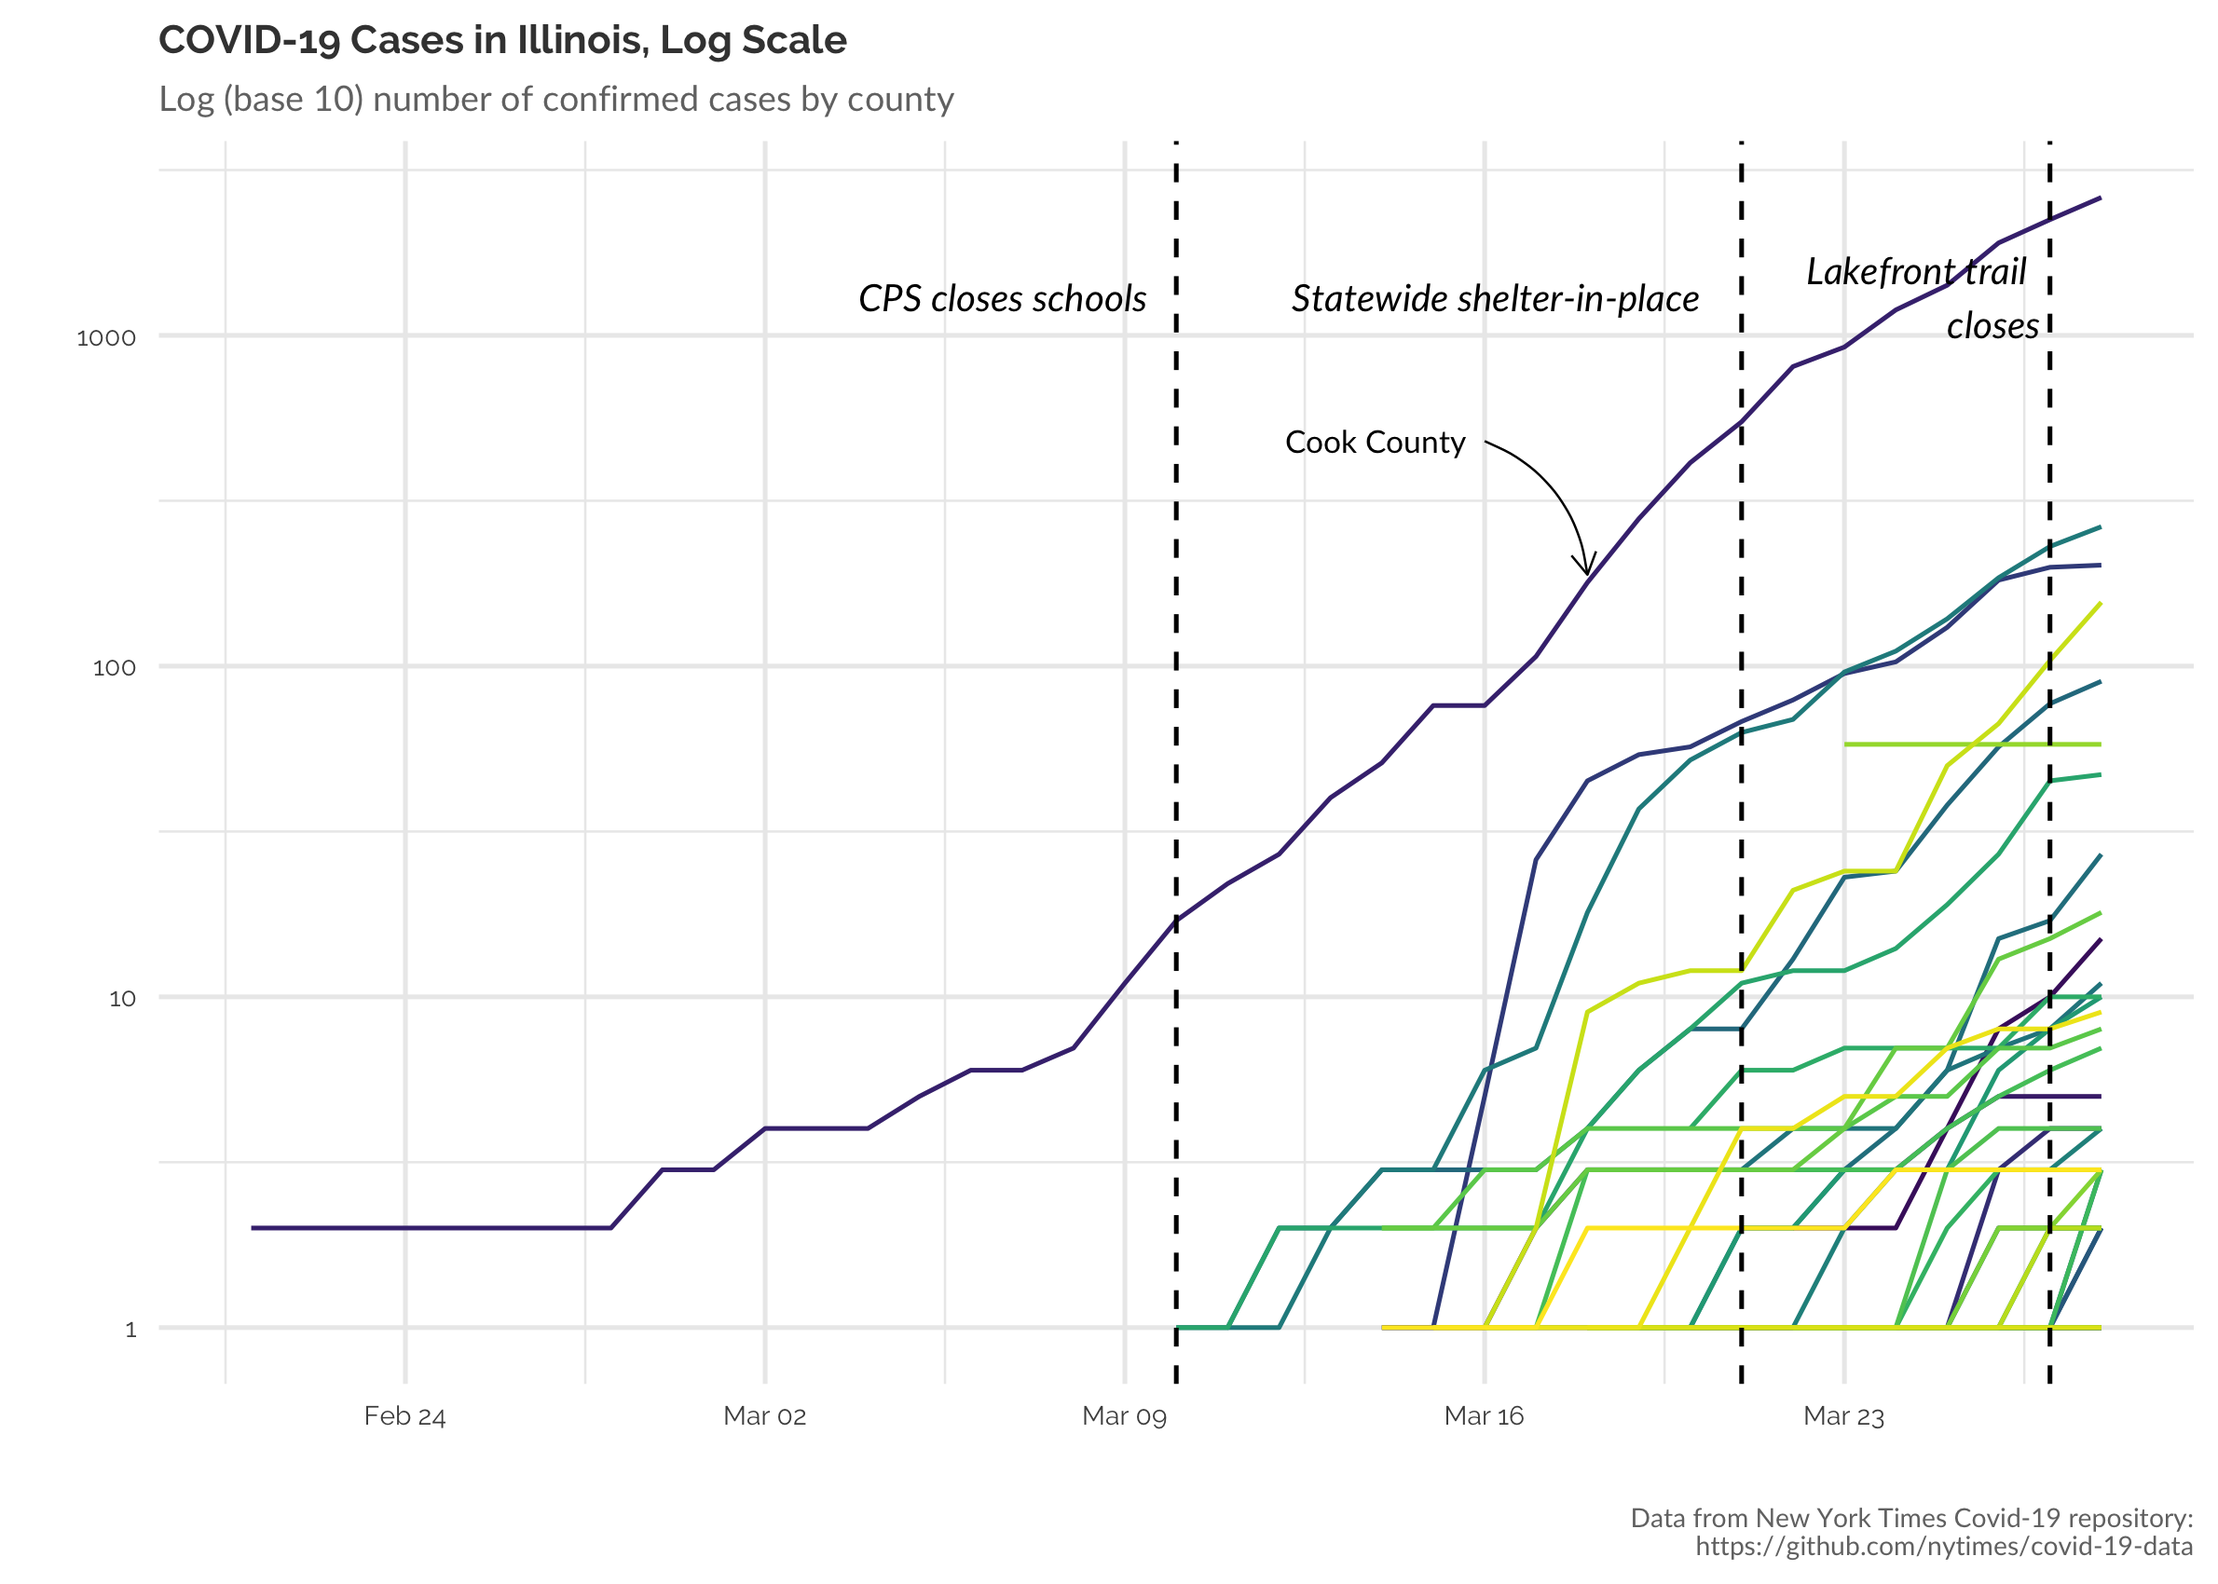
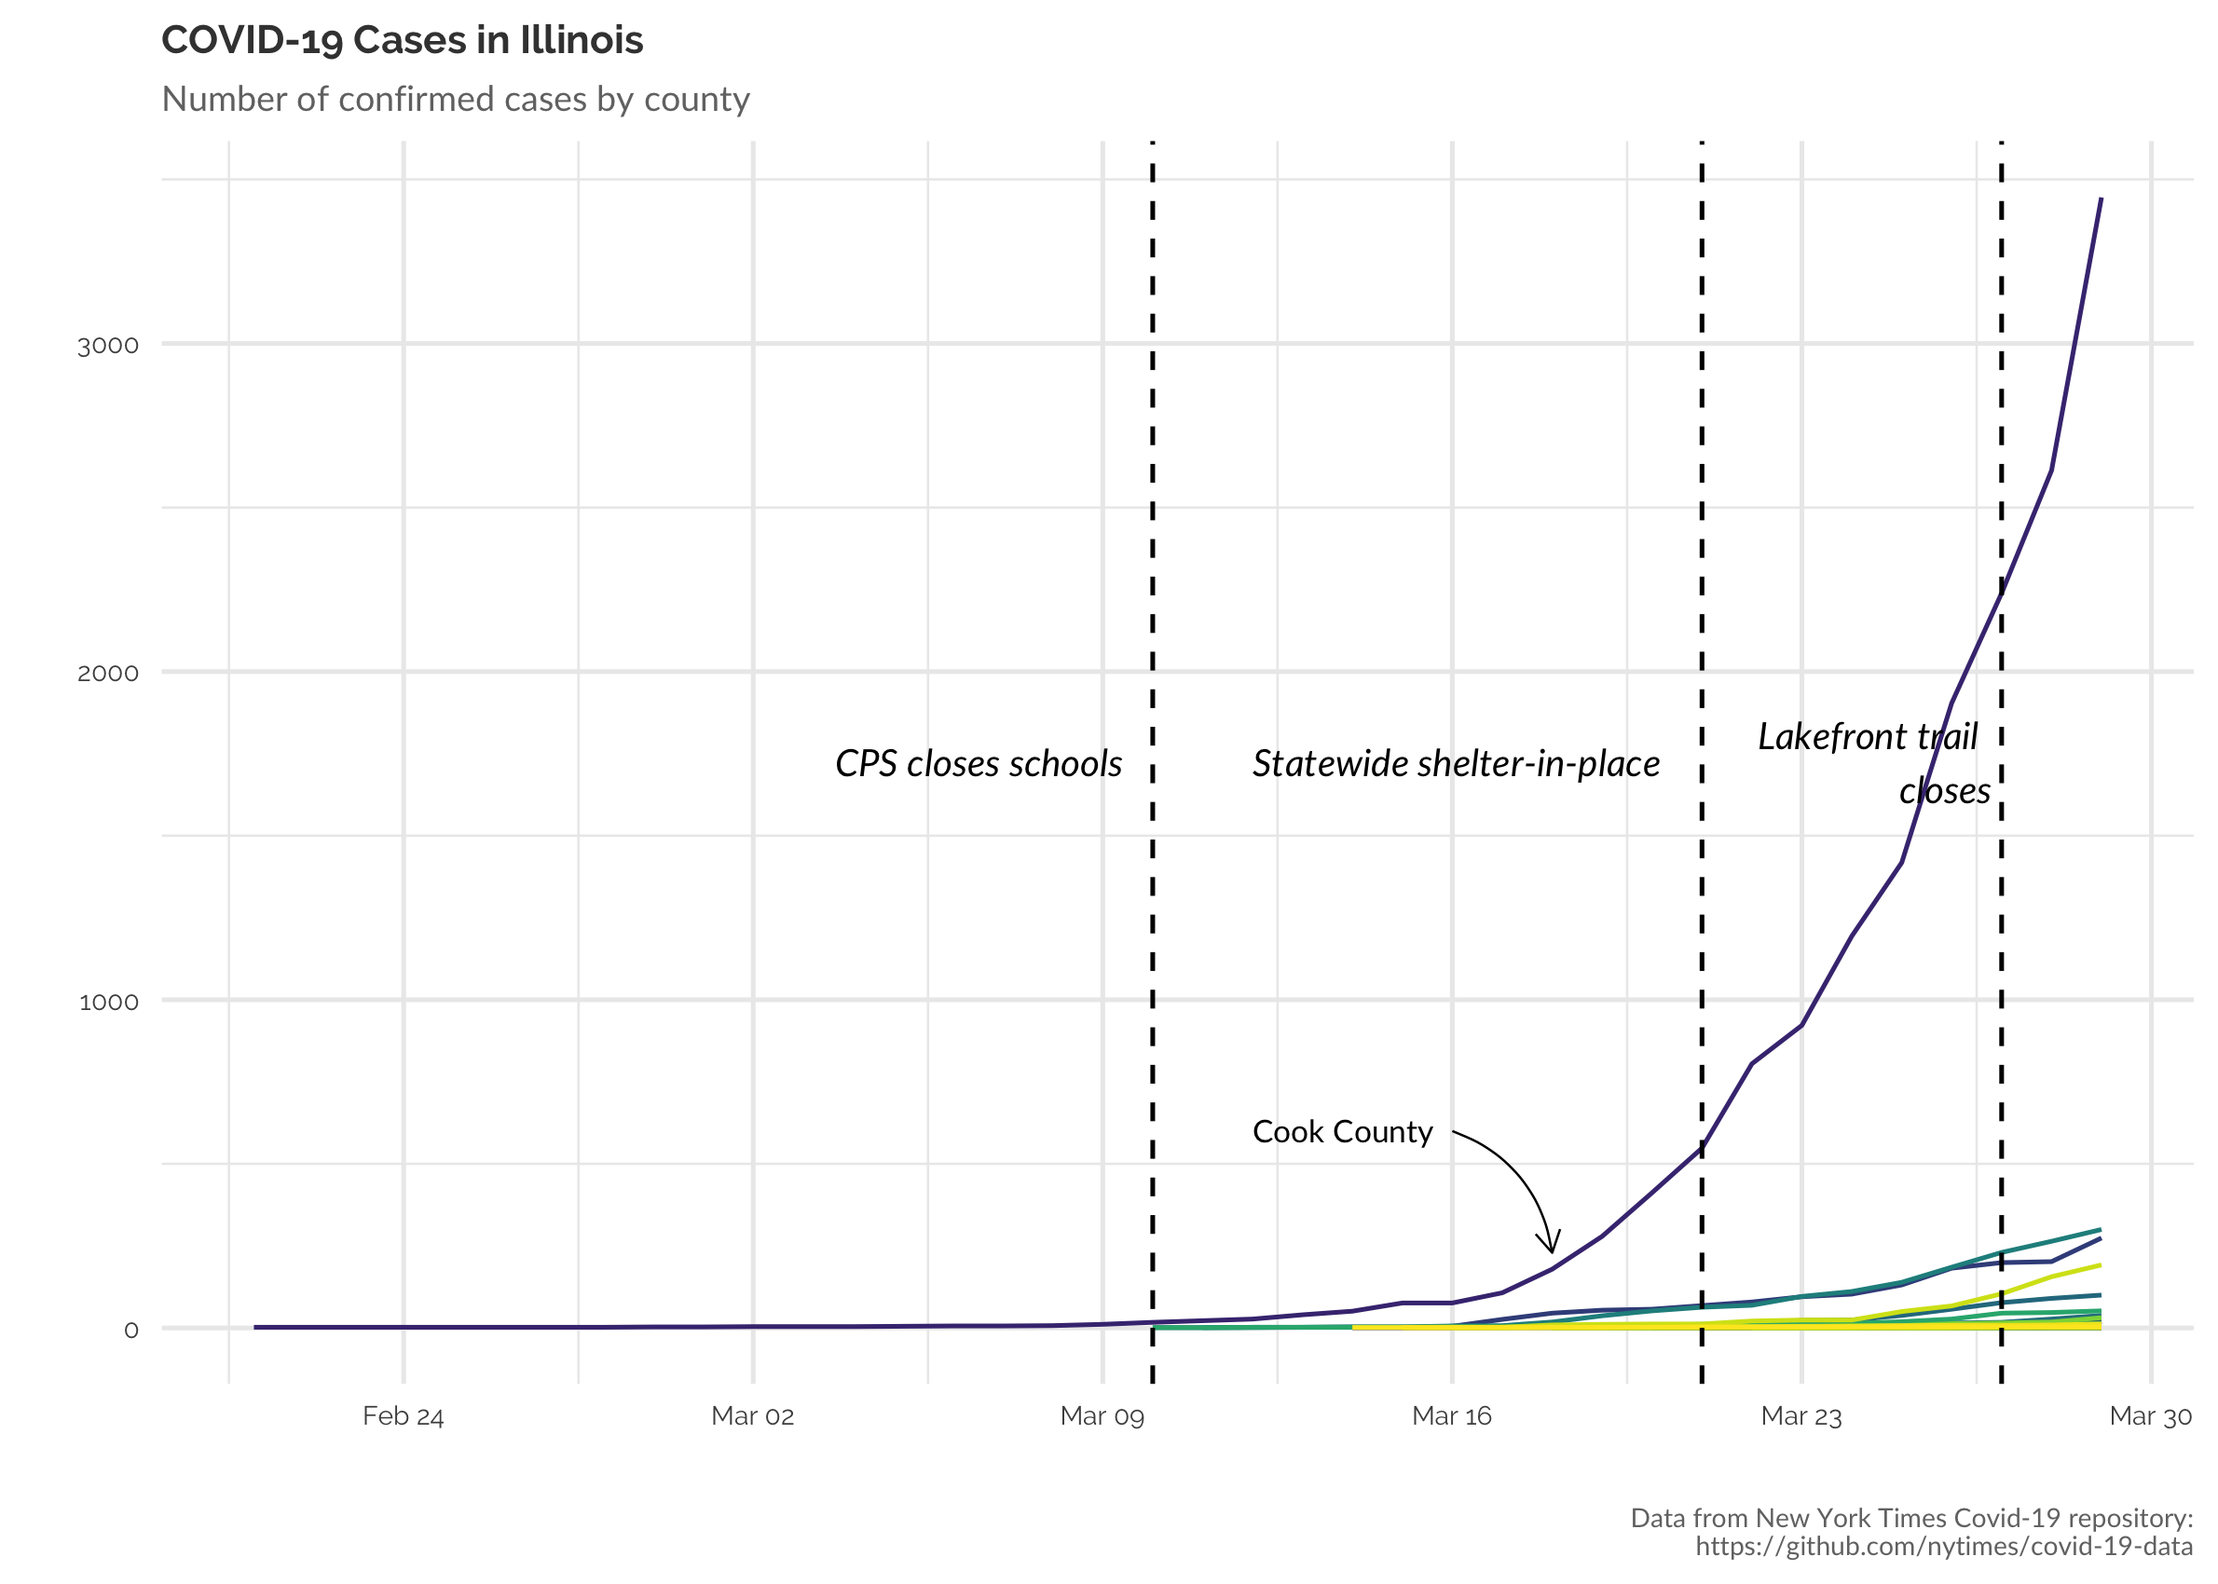
updated post on covid-19 in il

diff --git a/_posts/2020-03-28-covid-il.md b/_posts/2020-03-28-covid-il.md
@@ -16,6 +16,8 @@ order for over a week. Schools have been closed for two weeks. I’ve been
 busy with the little ones and with work. But I thought I might visualize
 the spread of COVID-19 in Illinois, which I have not yet seen done.
 
+I like to set a custom `ggplot2` theme. Nothing fancy.
+
 ``` r
 # Define ggplot theme
 theme_set(
@@ -28,17 +30,38 @@ theme_set(
       axis.text.y = element_text(size = 6),
       plot.title = element_text(size = 9, colour = "grey25", face = "bold"),
       plot.subtitle = element_text(family = "Lato", size = 8, colour = "grey45"),
-      plot.caption = element_text(family = "Lato", size = 6, colour = "grey45")
+      plot.caption = element_text(family = "Lato", size = 6, colour = "grey45"),
+      legend.margin=margin(),
+      legend.text = element_text(size = 6), 
+      legend.title = element_text(size = 8, vjust = 0),
+      legend.key.size = unit(0.5, "cm")
     )
 )
 ```
 
 # Getting the data from the New York Times COVID-19 github repo
 
+There are a few organizations tracking confirmed COVID-19 cases and
+deaths, including the [Johns Hopkins University Center for Systems
+Science and Engineering](https://github.com/CSSEGISandData/COVID-19) and
+the [New York Times](https://github.com/nytimes/covid-19-data). The JHU
+repo seems a bit more comprehensive, but the New York Times gives me
+just what I need. I read the county-level csv file straight from GitHub
+and filter it to include only Illinois counties.
+
 ``` r
 il <- read_csv("https://raw.githubusercontent.com/nytimes/covid-19-data/master/us-counties.csv") %>% 
-  filter(state == "Illinois")
+  filter(state == "Illinois", county != "Unknown")
 
+glimpse(il)
+```
+
+I use the `{tidycensus}` package to get both county population from the
+2010 Dicennial Census and county geographic data. This will enable me to
+determine per capita rates, as well as create spatial visualizations of
+COVID-19 cases.
+
+``` r
 # il county census data
 il_pop <- get_decennial(geography = "county", 
                         variables = "P001001", 
@@ -46,9 +69,27 @@ il_pop <- get_decennial(geography = "county",
                         geometry = TRUE) %>% 
   janitor::clean_names() %>% 
   transmute(geoid = geoid,
+            county = str_remove(name, " County, Illinois"),
             population = value,
             geometry = geometry)
+
+glimpse(il_pop)
 ```
+
+# Visualizing confirmed COVID-19 cases in Illinois
+
+Accessing the data was easy. Now, I will make a series of line graphs,
+similar to what’s making the rounds on various social media platforms.
+
+## Nominal confirmed cases by county
+
+First, a simple visualization of the number of confirmed cases in
+Illinois, by county, since Feb. 20. I include a couple of relevant dates
+as annotations–when CPS closed schools, the statewide shelter-in-place
+order, and the closing of the Lakefront trail. Cook County, where
+Chicago is located and by far the most populous in the state, has the
+largest number of confirmed cases, unsurprisingly. As of March 28, there
+are over 2,000 confirmed cases.
 
 ``` r
 il %>% 
@@ -104,13 +145,23 @@ il %>%
        caption = "Data from New York Times Covid-19 repository:\nhttps://github.com/nytimes/covid-19-data")
 ```
 
-![](https://ramorel.github.io/files/2020-03-28-covid-il_files/figure-gfm/unnamed-chunk-3-1.png)<!-- -->
+![](https://ramorel.github.io/files/2020-03-28-covid-il_files/figure-gfm/unnamed-chunk-4-1.png)<!-- -->
 
-# Using a log scale for number of cases
+## Log scale for confirmed cases in Illinois
+
+Using a log scale helps to clarify the line graph, turning the steeply
+curving exponential line into a nice linear line. A linear increase on a
+log scale graph corresponds to a nominal exponential increase. A flatter
+line would mean that the rate of confirmed cases is becoming more
+linear. Notable in this version is the extreme growth of cases in DuPage
+County, which borders Cook County to the west and is the second-most
+populous in the state. Tracking close to DuPage County is Lake County,
+also part of the Chicago metropolitan area, bordering Cook County to the
+north.
 
 ``` r
 il %>% 
-  filter(cases != 0, date > "2020-02-20") %>% 
+  filter(date > "2020-02-20") %>% 
   ggplot(aes(x = date, y = cases, group = county)) +
   geom_line(aes(color = county)) +
   geom_vline(xintercept = as.Date("2020-03-10"), linetype = 2) +
@@ -157,15 +208,36 @@ il %>%
            hjust = 1.1, 
            size = 2.5, 
            family = "Lato") +
+  annotate("curve", 
+           x = as.Date("2020-03-15"), 
+           y = (il$cases[il$county == "DuPage" & il$date == "2020-03-16"] + 10), 
+           xend = as.Date("2020-03-16"), 
+           yend = (il$cases[il$county == "DuPage" & il$date == "2020-03-16"] + 5), 
+           size = 0.25, 
+           curvature = .3, 
+           arrow = arrow(length = unit(2, "mm"))) + 
+  annotate("text", 
+           label = "DuPage County", 
+           x = as.Date("2020-03-16"), 
+           y = (il$cases[il$county == "DuPage" & il$date == "2020-03-17"] - 10), 
+           hjust = 1.1, 
+           vjust = 0, 
+           size = 2.5, 
+           family = "Lato") +
   labs(x = "", y = "", 
        title = "COVID-19 Cases in Illinois, Log Scale",
        subtitle = "Log (base 10) number of confirmed cases by county",
        caption = "Data from New York Times Covid-19 repository:\nhttps://github.com/nytimes/covid-19-data")
 ```
 
-![](https://ramorel.github.io/files/2020-03-28-covid-il_files/figure-gfm/unnamed-chunk-4-1.png)<!-- -->
+![](https://ramorel.github.io/files/2020-03-28-covid-il_files/figure-gfm/unnamed-chunk-5-1.png)<!-- -->
 
-## Using number of cases per 10,000
+## Number of confirmed cases per 10,000
+
+Look at the rate per 10,000 people in each county reveals another
+dimension of the spread. For one, it shows that the situation in both
+Lake and DuPage counties, while nominally appearing better than Cook, is
+almost as bad when taking the population into account.
 
 ``` r
 il_per_cap <-
@@ -174,7 +246,7 @@ il_per_cap <-
   complete(county, nesting(date), fill = list(cases = 0, deaths = 0)) %>%
   arrange(date, county) %>% 
   select(-fips) %>% 
-  left_join(il %>% select(county, fips), by = "county") %>% 
+  left_join(il %>% select(county, fips) %>% distinct(), by = "county") %>% 
   left_join(il_pop %>% select(geoid, population), 
             by = c("fips" = "geoid")) %>% 
   mutate(cases_per = (cases/population) * 10000,
@@ -245,22 +317,57 @@ il_per_cap %>%
        caption = "Data from New York Times Covid-19 repository:\nhttps://github.com/nytimes/covid-19-data")
 ```
 
-![](https://ramorel.github.io/files/2020-03-28-covid-il_files/figure-gfm/unnamed-chunk-5-1.png)<!-- -->
+![](https://ramorel.github.io/files/2020-03-28-covid-il_files/figure-gfm/unnamed-chunk-6-1.png)<!-- -->
+
+# Spatial visualization of confirmed COVID-19 cases in Illinois
+
+The next set of visualizations look at the spatial distribution of
+cases. This analysis shows us that, although most of the cases are
+concentrated around the Chicago metropolitan area, where most of the
+populatoin of Illinois is located, there are cases throughout the state.
+At this point, not every country has a confirmed case, but I imagine
+that reality is not far off. I use the brilliant `{gganimate}` package
+to animate the growth of cases by county.
+
+Not all the counties in Illinois are represented in the data, but I want
+them included in the visualization. So I have to do a little more
+wrangling of the data. I will complete the dataframe by doing a
+`full_join()` with county column from the census data and then
+recalculate the rate per 10,000.
+
+``` r
+il <- il %>% 
+  full_join(il_pop %>% st_drop_geometry() %>% select(county)) %>% 
+  complete(county, nesting(date), fill = list(cases = 0, deaths = 0)) %>% 
+  arrange(date, county)
+
+il_per_cap <-
+  il %>% 
+  left_join(il_pop %>% select(county, population), 
+            by = c("county")) %>% 
+  mutate(cases_per = (cases/population) * 10000,
+         deaths_per = (deaths/population) * 100000) 
+```
+
+For the first map, I use the log of the number of confirmed cases. Since
+Chicago has so many more cases than any other county, nominally, the
+maps would not show much meaningful contrast. Logging the number of
+cases makes the contrast between low-number counties.
 
 ``` r
 il_anim <- il %>% 
-  filter(cases != 0, date > "2020-02-20") %>% 
+  filter(date > "2020-02-20") %>% 
   mutate(log_cases = log10(cases)) %>% 
-  left_join(il_pop %>% select(geoid, population), 
-            by = c("fips" = "geoid")) %>% 
+  left_join(il_pop %>% select(county, population), 
+            by = c("county")) %>% 
   ggplot() +
   geom_sf(data = il_pop, aes(geometry = geometry)) +
-  geom_sf(aes(geometry = geometry, fill = cases)) +
-  scale_fill_viridis_c(name = "Cases (logged)") +  
+  geom_sf(aes(geometry = geometry, fill = log_cases)) +
+  scale_fill_viridis_c(name = "Cases (logged)", na.value = "grey70") +  
   labs(x = "", y = "", 
-       title = "COVID-19 Cases in Illinois by County",
+       title = "Confirmed COVID-19 Cases in Illinois by County (log scale)",
        subtitle = "{current_frame}",
-       caption = "Data from New York Times Covid-19 repository:\nhttps://github.com/nytimes/covid-19-data") +
+       caption = "Notes. Gray indicates no cases.\nData from New York Times Covid-19 repository:\nhttps://github.com/nytimes/covid-19-data") +
   transition_manual(date) +
   theme(plot.background = element_rect(fill = "antiquewhite2", color = NA),
         axis.ticks.x = element_blank(), 
@@ -273,17 +380,22 @@ il_anim <- il %>%
 animate(il_anim, fps = 10)
 ```
 
-![](https://ramorel.github.io/files/2020-03-28-covid-il_files/figure-gfm/unnamed-chunk-6-1.gif)<!-- -->
+![](https://ramorel.github.io/files/2020-03-28-covid-il_files/figure-gfm/unnamed-chunk-8-1.gif)<!-- -->
+
+Second, I use the number of cases per 10,000, as above. This, to my
+mind, does the best job of showing the severity of the pandemic in each
+county.
 
 ``` r
 il_anim <-
   il_per_cap %>% 
+  mutate(cases_per = ifelse(cases_per == 0, NA, cases_per)) %>% 
   ggplot() +
   geom_sf(data = il_pop, aes(geometry = geometry)) +
-  geom_sf(aes(geometry = geometry, fill = cases_per), color = NA) +
-  scale_fill_viridis_c(name = "Cases per 10,000") +  
+  geom_sf(aes(geometry = geometry, fill = cases_per)) +
+  scale_fill_viridis_c(name = "Cases per 10,000", na.value = "grey70") +  
   labs(x = "", y = "", 
-       title = "COVID-19 Cases in Illinois by County",
+       title = "Confirmed COVID-19 Cases per 10,000 in Illinois by County",
        subtitle = "{current_frame}",
        caption = "Data from New York Times Covid-19 repository:\nhttps://github.com/nytimes/covid-19-data") +
   transition_manual(date) +
@@ -298,4 +410,49 @@ il_anim <-
 animate(il_anim, fps = 10)
 ```
 
-![](https://ramorel.github.io/files/2020-03-28-covid-il_files/figure-gfm/unnamed-chunk-7-1.gif)<!-- -->
+![](https://ramorel.github.io/files/2020-03-28-covid-il_files/figure-gfm/unnamed-chunk-9-1.gif)<!-- -->
+
+Last, I want to capture the distribution of the population in Illinois
+with the number of cases in each county. This makes it clearer that,
+while the Chicago metropolitan area has the most number of cases, it is
+also by far the most populous area in the state. I use the log of the
+population, since Cook County is SO much bigger than every other county.
+
+``` r
+il_anim <-
+  il_per_cap %>% 
+  mutate(lon = map_dbl(geometry, ~st_point_on_surface(.x)[[1]]), 
+         lat = map_dbl(geometry, ~st_point_on_surface(.x)[[2]]),
+         cases_per = ifelse(cases_per == 0, NA, cases_per)) %>%
+  ggplot() +
+  geom_sf(data = il_pop, aes(geometry = geometry, fill = log(population, base = 10))) +
+  geom_point(aes(x = lon, y = lat, size = cases_per), color = "tomato", alpha = 0.7) +
+  scale_fill_distiller(name = "Logged Population", labels = scales::comma, palette = "Blues", direction = 1) +  
+  scale_size(name = "Cases per 10,000") +
+  labs(x = "", y = "", 
+       title = "Confirmed COVID-19 Cases per 10,000 in Illinois by County",
+       subtitle = "Date: {current_frame}",
+       caption = "Data from New York Times Covid-19 repository:\nhttps://github.com/nytimes/covid-19-data") +
+  transition_manual(date) +
+  theme(plot.background = element_rect(fill = "cornsilk2", color = NA),
+        axis.ticks.x = element_blank(), 
+        axis.text.x = element_blank(), 
+        axis.text.y = element_blank(), 
+        axis.ticks.y = element_blank(), 
+        panel.grid.major = element_blank(),
+        panel.grid.minor = element_blank())
+
+animate(il_anim, fps = 10)
+```
+
+![](https://ramorel.github.io/files/2020-03-28-covid-il_files/figure-gfm/unnamed-chunk-10-1.gif)<!-- -->
+
+# Final remarks
+
+The number of confirmed cases represents a likely biased sample of the
+true number of cases in the population, since confirmation depends upon
+testing and access to testing. The large number of confirmed cases in
+Cook, DuPage, and Lake counties could be because there is better access
+to tests, a more affluent population who can afford testing, etc.
+Needless to say, the number of confirmed cases does not represent the
+number of true cases.
